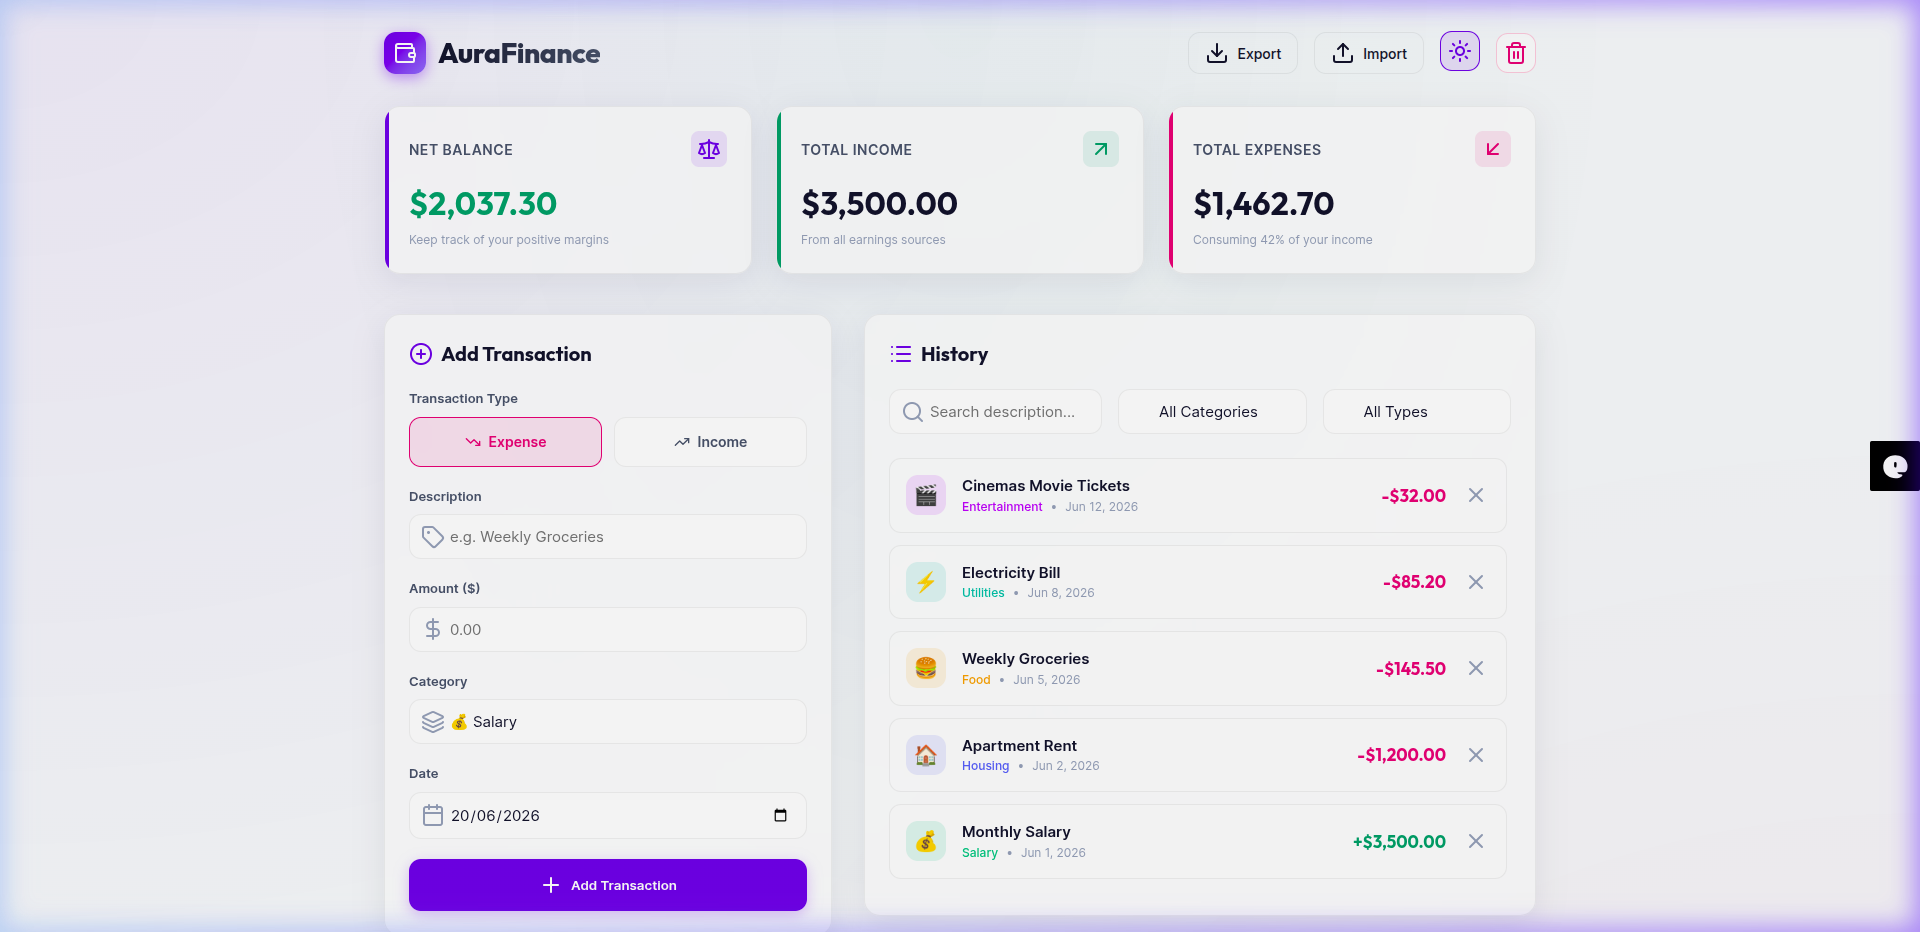
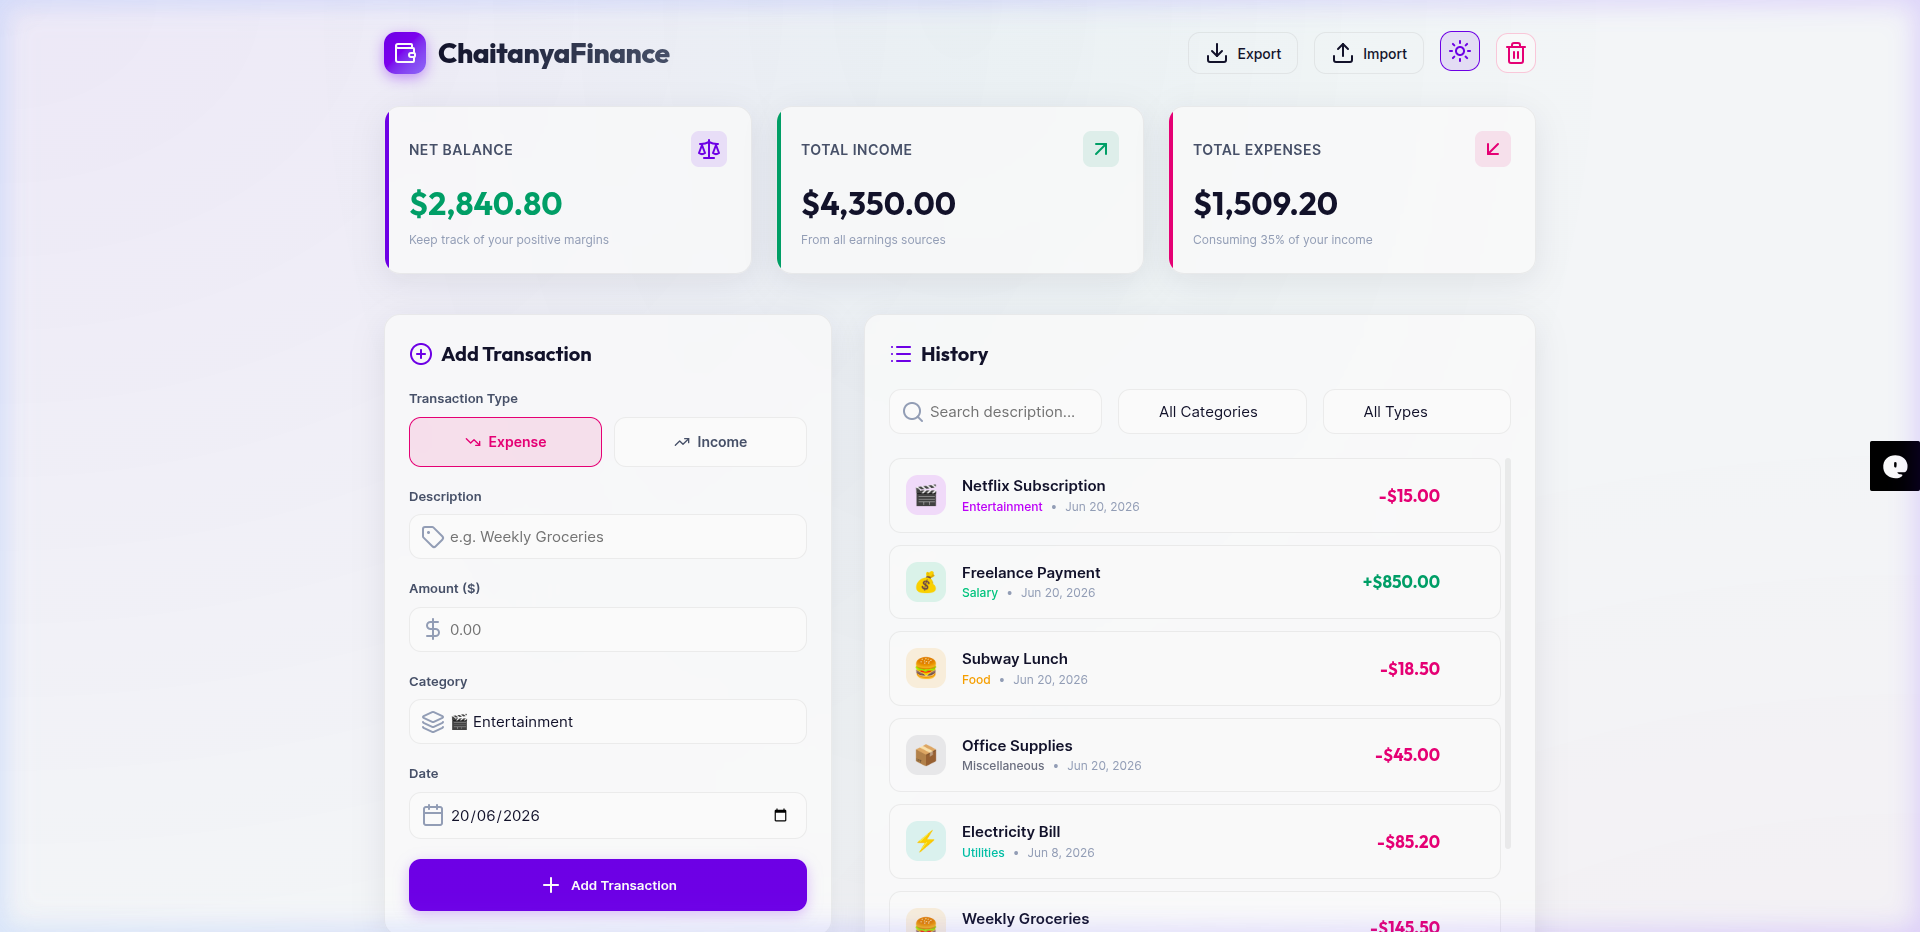
Update README with comprehensive features list, proper image references, fresh screenshots, and full demo recording

diff --git a/README.md b/README.md
@@ -1,123 +1,199 @@
-# 💳 ChaitanyaFinance — Simple Personal Wealth Tracker
+# 💳 ChaitanyaFinance — Personal Wealth Tracker
 
 <p align="center">
-  <img src="./assets/dashboard-dark.png" alt="ChaitanyaFinance Dark Mode Banner" width="100%" style="border-radius: 12px; border: 1px solid rgba(255,255,255,0.08); box-shadow: 0 10px 30px rgba(0,0,0,0.5);" />
+  <img src="./assets/dashboard-dark.png" alt="ChaitanyaFinance Dark Mode Dashboard" width="100%" />
 </p>
 
 <p align="center">
-  <strong>A modern, glassmorphism-styled personal finance tracker served via a Node.js Express server and persistent SQLite storage.</strong>
+  <strong>A modern, glassmorphism-styled personal finance tracker — built with Node.js, Express, and SQLite. Developed entirely through Vibe Coding using Antigravity AI.</strong>
 </p>
 
 <p align="center">
   <a href="https://www.linkedin.com/in/chaitanya-dasadiya">
-    <img src="https://img.shields.io/badge/LinkedIn-Chaitanya_Dasadiya-0A66C2?style=for-the-badge&logo=linkedin&logoColor=white" alt="LinkedIn Badge" />
+    <img src="https://img.shields.io/badge/LinkedIn-Chaitanya_Dasadiya-0A66C2?style=for-the-badge&logo=linkedin&logoColor=white" alt="LinkedIn" />
   </a>
-  <img src="https://img.shields.io/badge/Node.js-339933?style=for-the-badge&logo=nodedotjs&logoColor=white" alt="Node JS Badge" />
-  <img src="https://img.shields.io/badge/SQLite-003B57?style=for-the-badge&logo=sqlite&logoColor=white" alt="SQLite Badge" />
-  <img src="https://img.shields.io/badge/Express-000000?style=for-the-badge&logo=express&logoColor=white" alt="Express Badge" />
-  <img src="https://img.shields.io/badge/JavaScript-F7DF1E?style=for-the-badge&logo=javascript&logoColor=black" alt="JavaScript Badge" />
+  <img src="https://img.shields.io/badge/Node.js-339933?style=for-the-badge&logo=nodedotjs&logoColor=white" alt="Node.js" />
+  <img src="https://img.shields.io/badge/Express-000000?style=for-the-badge&logo=express&logoColor=white" alt="Express" />
+  <img src="https://img.shields.io/badge/SQLite-003B57?style=for-the-badge&logo=sqlite&logoColor=white" alt="SQLite" />
+  <img src="https://img.shields.io/badge/JavaScript-F7DF1E?style=for-the-badge&logo=javascript&logoColor=black" alt="JavaScript" />
+  <img src="https://img.shields.io/badge/Chart.js-FF6384?style=for-the-badge&logo=chartdotjs&logoColor=white" alt="Chart.js" />
 </p>
 
 ---
 
 ## 🎨 Visual Showcase
 
-ChaitanyaFinance features a premium design that updates in real time as you manage your transactions.
-
-### 🌓 Theme Customization
-Toggle effortlessly between a stunning Slate Dark mode and a clean Light mode directly from the header panel.
+### 🌓 Dark Mode vs Light Mode
 
 | 🌌 Dark Mode (Default) | ☀️ Light Mode |
-| :---: | :---: |
-| <img src="./assets/dashboard-dark.png" width="100%" style="border-radius: 8px;" /> | <img src="./assets/dashboard-light.png" width="100%" style="border-radius: 8px;" /> |
+|:---:|:---:|
+| ![Dark Mode](./assets/dashboard-dark.png) | ![Light Mode](./assets/dashboard-light.png) |
 
-### 🎬 Interactive DB-backed Simulation
-The application is fully backed by an Express server and SQLite. Adding, deleting, sorting, and filtering records automatically updates database rows and updates Chart.js figures.
+### 📸 Final Dashboard State
 
-<p align="center">
-  <img src="./assets/demo.webp" alt="Interactive Database Demo" width="100%" style="border-radius: 12px; border: 1px solid rgba(255,255,255,0.08);" />
-</p>
+![Final Dashboard](./assets/final-state.png)
+
+> **Note on Demo Video:** GitHub does not natively support embedded video files in README. To view the full interactive demo recording, please **[click here to watch the demo](./assets/demo-recording.webp)** or clone the repo locally and open `assets/demo-recording.webp` in your browser.
 
 ---
 
 ## ✨ Features
 
-- **Express & SQLite Engine**: Data is saved directly in a local filesystem `database.sqlite` file.
-- **Micro-animations**: Elegant page animations, dynamic net balance colorings, and slide-in entry list elements.
-- **Doughnut Analytics**: Interactive Chart.js graphs mapping expense category proportions.
-- **Dynamic Filters**: Instant client-side search by text matching, category type sorting, or transaction division.
-- **Import / Export**: Clean backup tools to download your record logs as a JSON file, or restore databases from JSON files.
-- **Client Preferences**: Interface adjustments (such as theme toggles) are kept saved in browser cookies/localStorage namespaces (`chaitanya_theme`).
+ChaitanyaFinance covers all the essentials you'd need to track personal finances simply and beautifully.
+
+### 💰 Financial Dashboard
+| Feature | Description |
+|---|---|
+| **Net Balance Card** | Dynamically calculates and displays your total balance (Income − Expenses). Turns green when positive, red when negative |
+| **Total Income Card** | Shows the running sum of all income-type transactions across all categories |
+| **Total Expenses Card** | Shows cumulative outgoings, with a dynamic subtitle showing the % of income consumed |
+
+### 📝 Transaction Management
+| Feature | Description |
+|---|---|
+| **Add Transaction** | Quick-entry form with Description, Amount, Category (8 presets), Date picker, and Income/Expense type selector |
+| **Input Validation** | Client-side validation ensures no empty description, positive amount only, and date is required |
+| **Delete Transaction** | One-click delete button on each row with instant DB sync and UI refresh |
+| **Clear All Data** | Full database reset with a confirmation modal (warning overlay with cancel option) |
+| **Transaction History** | Scrollable, animated list sorted by date (newest first) with category emoji icons and color-coded amounts |
+
+### 🔍 Search & Filtering
+| Feature | Description |
+|---|---|
+| **Live Search** | Instant text-based filtering of transaction descriptions as you type |
+| **Category Filter** | Dropdown to filter history by a specific category (Food, Housing, Entertainment, etc.) |
+| **Type Filter** | Switch between All, Income Only, or Expense Only views instantly |
+
+### 📊 Visual Analytics
+| Feature | Description |
+|---|---|
+| **Doughnut Chart** | Interactive Chart.js expense breakdown chart with animated segments per category |
+| **Category Colours** | Each of the 8 categories (Food 🍔, Salary 💰, Housing 🏠, Utilities ⚡, Entertainment 🎬, Transport 🚗, Shopping 🛍️, Miscellaneous 📦) has a unique color identifier |
+| **Empty State Handling** | Chart panel shows a graceful empty state when no expense data is available |
+
+### 💾 Data Persistence & Backup
+| Feature | Description |
+|---|---|
+| **SQLite Database** | All transactions are saved to `database.sqlite` via an Express REST API — data persists across sessions and restarts |
+| **Auto-seed on First Boot** | Database is seeded with 5 sample transactions on first startup if empty |
+| **Export to JSON** | Download all your transaction data as a `.json` backup file with a single click |
+| **Import from JSON** | Restore or load transaction data from a previously exported JSON file — server validates the schema before replacing data |
+
+### 🎨 UI/UX & Design
+| Feature | Description |
+|---|---|
+| **Glassmorphism Design** | Premium dark slate theme with backdrop blur panels, subtle borders, and box shadows |
+| **Light / Dark Mode Toggle** | Switch themes with a single click — preference saved to browser localStorage |
+| **Micro-animations** | Slide-in entrance animations for new transactions, hover lift effects on cards, scale transitions on buttons |
+| **Toast Notifications** | Floating non-blocking alerts for success/error feedback (validation errors, import messages, etc.) |
+| **Responsive Layout** | Adapts to desktop, tablet, and mobile screen sizes using CSS Grid and Flexbox |
+| **Premium Fonts** | Uses `Outfit` (headings) and `Inter` (body) Google Fonts for a polished look |
+
+### 🔌 Backend REST API
+| Endpoint | Method | Description |
+|---|---|---|
+| `/api/transactions` | `GET` | Fetch all transactions from SQLite |
+| `/api/transactions` | `POST` | Add a new transaction (validated server-side) |
+| `/api/transactions/:id` | `DELETE` | Delete a single transaction by ID |
+| `/api/transactions` | `DELETE` | Clear all transactions from the database |
+| `/api/transactions/import` | `POST` | Bulk import transactions (atomic DB transaction) |
 
 ---
 
 ## 🚀 Quick Start
 
-To run this application locally, follow these simple setup steps:
+### Prerequisites
+- **Node.js** v20+ ([Download](https://nodejs.org/))
+- **npm** v10+
 
-### 1. Install Project Libraries
-Ensure Node.js is installed. In your terminal, run:
+### Installation & Run
 ```bash
+# 1. Clone the repository
+git clone https://github.com/cdasadiya/personal-finance-app.git
+cd personal-finance-app
+
+# 2. Install dependencies
 npm install
-```
 
-### 2. Boot the Express API & Static Server
-Start the local server:
-```bash
+# 3. Start the server
 npm start
+
+# 4. Open in your browser
+# Navigate to http://localhost:8080
 ```
 
-### 3. Open in Browser
-Navigate to [http://localhost:8080](http://localhost:8080) to access the finance tracker.
+The app will:
+- Auto-create `database.sqlite` on first boot
+- Seed 5 sample transactions if the database is empty
+- Serve the frontend and API on port `8080`
 
 ---
 
-## 🛠️ Vibe Coding & Agent-driven Development
+## 📁 Project Structure
 
-ChaitanyaFinance was engineered completely through **Vibe Coding** workflows using **Antigravity**, a powerful AI coding agent. Rather than typing code manually, the creator guided the system through conversational natural language prompts.
-
-### 💡 The Prompt History
-Here is the sequence of prompts used to generate the features, databases, themes, and deploy commands:
-
-1. **Requirements Gathering**:
-   > *"Please build a simple personal finance application. Before building it, give me requirements. Let's brain storm. I want to keep the application very simple. It should be a web application. Let's not add any complex features. Very simple application"*
-2. **Drafting initial codebase**:
-   > Approved the PRD setting up pure HTML/CSS/JS, glassmorphism templates, and mock cards.
-3. **Drafting Documentation**:
-   > *"prepare the readme.md file for the development"*
-4. **Improving Visuals & Assets**:
-   > *"make the readme.md file make it beautiful and interattive with few screenshots for the showcases over the github repo"*
-5. **Connecting DB Persistence (SQLite & Express)**:
-   > *"can you store the data into database and how about sqlite ?"*
-6. **Setting up Server Backend**:
-   > *"go ahead with Option A: Small Node.js (Express) Backend with SQLite"*
-7. **Deploying to Repository**:
-   > *"Please use this repo to commit the code into github https://github.com/cdasadiya/personal-finance-app.git"*
-8. **Polishing & Socials Customization**:
-   > *"Rename brand to ChaitanyaFinance, add requirements.txt, update Vibe Coding guide, manage Antigravity documentation, and add LinkedIn page badge."*
-
-### 🤖 The Role of Antigravity AI Agent
-The **Antigravity** coding assistant managed the full implementation lifecycle:
-* **Research & Planning**: Analyzed system capabilities (Node.js version validation) and formulated clean execution pipelines.
-* **Refactoring Code**: Built the database schema, Express endpoints, and refactored client calls to async fetch formats.
-* **Autonomous Quality Assurance (QA)**: Spun up automated browser subagents to click inputs, toggle themes, submit new transactions, and confirm that mathematical sums updated perfectly in the browser DOM.
-* **Asset Creation**: Captured screenshots and recorded interaction loops automatically during browser validations to produce visual assets for the showcase.
-* **Git Versioning**: Initialized local repositories, configured commit details, and pushed code directly to GitHub.
+```text
+personal-finance-app/
+├── assets/
+│   ├── dashboard-dark.png     # Dark theme screenshot
+│   ├── dashboard-light.png    # Light theme screenshot
+│   ├── final-state.png        # Final dashboard state screenshot
+│   └── demo-recording.webp   # Full demo session recording
+├── database.sqlite            # SQLite DB (auto-created on startup, gitignored)
+├── server.js                  # Express server: API routes + DB init + static serving
+├── app.js                     # Frontend logic: fetch calls, rendering, charts, filters
+├── index.html                 # App layout: header, cards, form, history, modals
+├── index.css                  # Styles: glassmorphism tokens, animations, responsive layout
+├── package.json               # Node.js project manifest
+├── requirements.txt           # System & dependency version requirements
+└── README.md                  # This documentation file
+```
 
 ---
 
-## 👤 Author details
+## 🛠️ Built with Vibe Coding & Antigravity AI
 
-This project was developed by **Chaitanya Dasadiya**.
+ChaitanyaFinance was engineered entirely through **Vibe Coding** — a development methodology where you describe features in natural language and an AI coding agent (Antigravity) handles implementation, testing, and deployment.
 
-* **LinkedIn**: [linkedin.com/in/chaitanya-dasadiya](https://www.linkedin.com/in/chaitanya-dasadiya)
-* **GitHub**: [github.com/cdasadiya](https://github.com/cdasadiya)
+### 💡 Key Prompts Used
 
-[![LinkedIn](https://img.shields.io/badge/LinkedIn-Chaitanya_Dasadiya-0A66C2?style=flat-square&logo=linkedin&logoColor=white)](https://www.linkedin.com/in/chaitanya-dasadiya)
+| Step | Prompt |
+|---|---|
+| **1. Brainstorm** | *"Please build a simple personal finance application. Let's brain storm. Keep it very simple."* |
+| **2. PRD** | *"Please prepare the PRD document before building anything"* |
+| **3. Build** | *(Approved the PRD — Antigravity wrote all HTML, CSS, JS from scratch)* |
+| **4. Documentation** | *"prepare the readme.md file for the development"* |
+| **5. Database** | *"can you store the data into database and how about sqlite?"* |
+| **6. Backend** | *"go ahead with Option A: Small Node.js (Express) Backend with SQLite"* |
+| **7. Deploy** | *"Please use this repo to commit the code into github"* |
+| **8. Rename & Polish** | *"rename AuraFinance to ChaitanyaFinance across the entire project"* |
+
+### 🤖 What Antigravity Did Autonomously
+- **Planned** the architecture (PRD, implementation plans, task checklists)
+- **Wrote** all HTML, CSS, JavaScript, and Node.js code
+- **Designed** the glassmorphism UI, color palette, and animation system
+- **Built** the Express REST API and SQLite database schema
+- **Tested** everything with autonomous browser sub-agents (clicking, typing, verifying calculations)
+- **Captured** screenshots and demo recordings during testing
+- **Deployed** by initializing git, writing commit messages, and pushing to GitHub
+
+---
+
+## 👤 Author
+
+Made with ❤️ by **Chaitanya Dasadiya**
+
+<p>
+  <a href="https://www.linkedin.com/in/chaitanya-dasadiya">
+    <img src="https://img.shields.io/badge/LinkedIn-Chaitanya_Dasadiya-0A66C2?style=flat-square&logo=linkedin&logoColor=white" alt="LinkedIn" />
+  </a>
+  &nbsp;
+  <a href="https://github.com/cdasadiya">
+    <img src="https://img.shields.io/badge/GitHub-cdasadiya-181717?style=flat-square&logo=github&logoColor=white" alt="GitHub" />
+  </a>
+</p>
 
 ---
 
 ## 📜 License
+
 This project is open-source and licensed under the [MIT License](https://opensource.org/licenses/MIT).
-
-